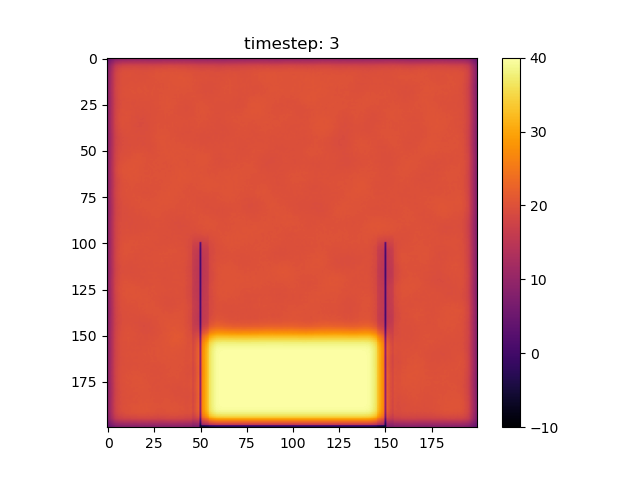
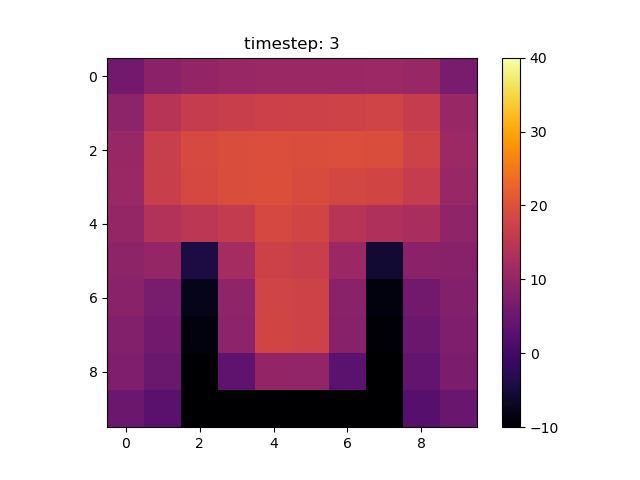
ready to tackle overflow

diff --git a/visualizer.py b/visualizer.py
@@ -1,5 +1,3 @@
-import matplotlib.pyplot as plt
-import imageio
 from convectionModel.physics import *
 
 
@@ -12,9 +10,9 @@ from convectionModel.physics import *
 
 
 # raster size and timesteps
-resX = 200
+resX = 10
 resY = resX
-timesteps = 50
+timesteps = 5
 container_temp = -10
 
 # fill temperature and height of pre-filled liquid as well as energy lost to the exterior of the system
@@ -22,12 +20,12 @@ pre_fill = True
 fill_temp = 40
 filling_height = 0.75
 diffusion_index = 0.3
-diffusion_degree = 5
+diffusion_degree = int((resX/10)+1)
 loss_over_time = 0
 
 # set up list to convert output to gif r
-gif_output = True
-gif_duration = 0.5 #second(s)
+gif_output = False
+gif_duration = 1 #second(s)
 
 
 #set up iteration
@@ -40,18 +38,13 @@ print("Initializing the system...\n")
 plt.ioff()
 
 t = 0
-
 in_raster = np.random.random(size=(resX,resY))
 
+
+# do the simulation
 out_rasters = timestepper(t,timesteps, in_raster, container_temp, filling_height, fill_temp, diffusion_index, loss_over_time, diffusion_degree)
 
+# make the gif from the outputs
+makeGif(mode=gif_output, out_rasters=out_rasters, gif_duration=gif_duration)
 
-# create gif from individual timesteps
-print("creating .gif...")
-images = []
-
-#for raster in out_rasters:
-    #images.append(imageio.imread(raster))
-    #imageio.mimsave('gifs/convection.gif', images, duration=gif_duration)
-print(out_rasters)
 print("done")

diff --git a/physics.py b/physics.py
@@ -1,5 +1,6 @@
 import numpy as np
 import matplotlib.pyplot as plt
+import imageio
 
 def plotter(filepath, raster, upper, lower, t):
     ''' plots input raster'''
@@ -397,3 +398,20 @@ def unpad(x, pad_width):
         slices.append(slice(c[0], e))
     return x[tuple(slices)]
 
+
+
+#---------------------------------------------------------
+#                       GIF CONVERSION
+
+def makeGif(mode,out_rasters,gif_duration):
+    # create gif from individual timesteps
+    if mode == True:
+        print("creating .gif...")
+        images = []
+
+        for raster in out_rasters:
+            images.append(imageio.imread(raster))
+            imageio.mimsave('gifs/convection.gif', images, duration=gif_duration)
+        print(out_rasters)
+    else:
+        pass
